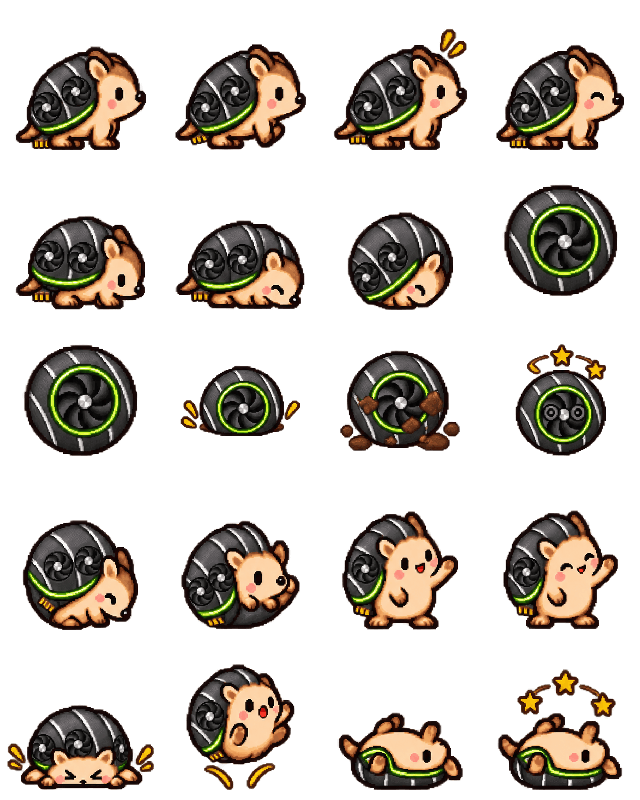
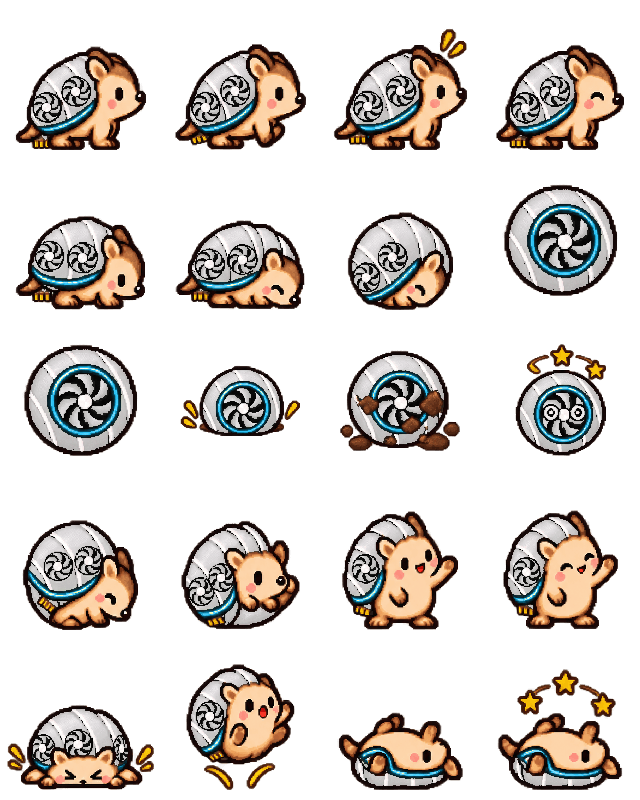
feat(marble): 5090 에디션을 LED · 화이트 · 블랙으로 구분 — 구를 때 셋이 똑같이 보이던 문제
세 스킨 모두 "검은 공 + 초록 링"이라 게임 크기(28px)로 구르면 구분이 안 됐다.
실제 그래픽카드 라인업처럼 색으로 가른다.

- 공벌레 = LED: LED 띠·링을 무지개로, 공 칸은 팬 날개도 무지개(구르면 색이 돈다)
- 아르마딜로 = 화이트: 건메탈 판 → 흰색, LED → 하늘색
- 거북이 = 블랙: 그대로
- 다시 그리지 않고 recolor-gpu-editions.py 로 색만 변환(알파 동일, 결정론)
- 같은 이름 교체라 ASSET_VER v5 → v6, manifest md5 갱신
- 상점 이름: 공벌레 5090 LED 에디션 / 아르마딜로 5090 화이트 에디션 / 거북이 5090 블랙 에디션

검증: verify-creature ALL_OK, ball-round ROUND_OK, qa-marble-skin-shop-test ALL PASS,
프리뷰 ?v=6 로드·렌더 예외 0건

diff --git a/js/marble-render.js b/js/marble-render.js
@@ -127,7 +127,7 @@ var MarbleRender = (function () {
     // ─── 에셋 맵 (null = 2차 미도착 → 플레이스홀더) ───
     var A = '/assets/marble/';
     // 에셋 URL 버전 — 서버(routes/api.js)가 assets/marble/** 를 7일 캐시하므로, 같은 이름으로 파일을 교체하면 여기를 올려야 모두가 새 그림을 받는다(2026-09-22)
-    var ASSET_VER = '?v=5';   // v2(2026-09-26): N차 — trampoline 같은 이름 교체. v3(2026-09-29): 너구리 5시트 공 칸 원형화. v4(2026-09-30): 강철·레드 돼지 시트 교체. v5: 앵그리 아이언 얼굴 드러난 판으로 교체
+    var ASSET_VER = '?v=6';   // v2(2026-09-26): N차 — trampoline 같은 이름 교체. v3(2026-09-29): 너구리 5시트 공 칸 원형화. v4(2026-09-30): 강철·레드 돼지 시트 교체. v5: 앵그리 아이언 얼굴 드러난 판으로 교체. v6(2026-10-01): 5090 에디션 공벌레(LED)·아르마딜로(화이트) 색 교체
     function withVer(src) { return src.indexOf(A) === 0 ? src + ASSET_VER : src; }   // ui 아틀라스(UI_ICON_ATLAS_URL, 자체 ?v=)는 제외
     var ASSETS = {
         creatures: { hedgehog: A + 'creatures/hedgehog.webp', armadillo: A + 'creatures/armadillo.webp', pillbug: A + 'creatures/pillbug.webp', turtle: A + 'creatures/turtle.webp', panda: A + 'creatures/panda.webp', hamster: A + 'creatures/hamster.webp', pufferfish: A + 'creatures/pufferfish.webp', raccoon: A + 'creatures/raccoon.webp', rabbit: A + 'creatures/rabbit.webp', ribbonpig: A + 'creatures/ribbonpig.webp' },   // 7차 3종은 도착 전 — 없으면 선택 버튼 숨김(js/marble.js). 스킨 시트('{creature}-{skin}')는 ensureSkin 이 처음 필요할 때 로드

diff --git a/AutoTest/spritemake/recolor-gpu-editions.py b/AutoTest/spritemake/recolor-gpu-editions.py
@@ -1,0 +1,157 @@
+#!/usr/bin/env python3
+"""데구리 5090 에디션 스킨 3종을 색으로 가른다 — 구를 때 셋 다 "검은 공 + 초록 링"이라 구분이 안 됐다(사용자 2026-10-01).
+실제 그래픽카드 라인업처럼 화이트 / 블랙 / LED 로 나눈다. 그림(모양·포즈·알파)은 그대로, 색만 결정론으로 바꾼다(난수 없음).
+
+    armadillo-gpu  화이트 — 건메탈 판 → 흰색, 라임 LED → 하늘색
+    pillbug-gpu    LED    — 라임 LED → 무지개(공 칸은 중심 둘레 각도, 나머지 칸은 가로 방향), 공 칸은 팬 날개도 무지개로 켠다
+    turtle-gpu     블랙   — 그대로(이 스크립트가 안 건드림)
+
+원본은 SpriteMake 배치의 final/creatures/*.png(검은 판, GPT 생성본을 리팩한 것). 결과는 pickup-skin.py 와 같은 길
+(pngquant --nofs → cwebp 무손실, alpha>=8 마스크 불변 확인)로 assets/marble/creatures/ 에 덮어쓰고 manifest md5 를 갱신한다.
+같은 이름 교체이므로 실행 뒤 js/marble-render.js ASSET_VER 을 올린다.
+
+usage:
+  /opt/homebrew/bin/python3 AutoTest/spritemake/recolor-gpu-editions.py            # 두 스킨 × 시트 3장 교체 + manifest
+  /opt/homebrew/bin/python3 AutoTest/spritemake/recolor-gpu-editions.py --png DIR  # 검수용 PNG 만 DIR 에(게임 파일 안 건드림)
+"""
+import hashlib, json, subprocess, sys, tempfile
+from pathlib import Path
+import numpy as np
+from PIL import Image
+
+OUT = Path('/Users/radar/Work/SpriteMake/output')
+GAME = Path(__file__).resolve().parents[2]
+DEST = GAME / 'assets' / 'marble' / 'creatures'
+MAN = GAME / 'assets' / 'marble' / 'marble-run.manifest.json'
+KINDS = ['', '-sleep', '-scuffle']
+CELL = 160
+ALPHA_MIN = 8
+BALL_CELLS = {(1, 3), (2, 0), (2, 1), (2, 2), (2, 3)}   # main 시트의 공 칸 (row, col) — 중심 (80, 80)
+
+NEUTRAL_SAT = 0.25                # 이보다 채도가 낮으면 건메탈·은색(판·팬·하이라이트)
+LINE_V = 0.10                     # 이보다 어두운 무채색은 선·눈·외곽선 — 건드리지 않는다
+LED_HUE, LED_SAT = (58, 150), 0.35   # 라임 LED 띠·링(진흙 hue≈25, 별·금색 단자 hue≈45 는 범위 밖)
+WHITE_LED_HUE = 195               # 화이트 에디션 LED = 하늘색
+FAN_GLOW_RADIUS = 40              # 공 칸에서 팬 날개로 치는 반지름(LED 링 안쪽)
+
+
+def to_hsv(a):
+    r, g, b = [a[..., i].astype(float) / 255. for i in range(3)]
+    mx, mn = np.maximum(np.maximum(r, g), b), np.minimum(np.minimum(r, g), b)
+    d = mx - mn
+    h = np.zeros_like(mx)
+    m = d > 1e-6
+    i = m & (mx == r); h[i] = ((g - b)[i] / d[i]) % 6
+    i = m & (mx == g) & ~(mx == r); h[i] = (b - r)[i] / d[i] + 2
+    i = m & (mx == b) & ~(mx == r) & ~(mx == g); h[i] = (r - g)[i] / d[i] + 4
+    return h * 60, np.where(mx > 0, d / np.maximum(mx, 1e-6), 0), mx
+
+
+def to_rgb(h, s, v):
+    h = (h % 360) / 60.
+    i = np.floor(h).astype(int) % 6
+    f = h - np.floor(h)
+    p, q, t = v * (1 - s), v * (1 - f * s), v * (1 - (1 - f) * s)
+    return np.stack([np.choose(i, [v, q, p, p, t, v]), np.choose(i, [t, v, v, q, p, p]), np.choose(i, [p, p, t, v, v, q])], -1)
+
+
+def finish(a, op, h, s, v):
+    out = a.copy()
+    out[..., :3] = np.clip(np.round(to_rgb(h, s, v) * 255), 0, 255).astype(np.uint8)
+    out[~op] = a[~op]
+    assert (out[..., 3] == a[..., 3]).all()
+    return Image.fromarray(out, 'RGBA')
+
+
+def led_mask(op, h, s):
+    return op & (h >= LED_HUE[0]) & (h < LED_HUE[1]) & (s >= LED_SAT)
+
+
+def white(im, main):
+    """화이트 — 건메탈 판을 흰색으로(음영 방향 유지), 은색 하이라이트는 더 밝게, LED 는 하늘색."""
+    a = np.array(im.convert('RGBA'))
+    h, s, v = to_hsv(a)
+    op = a[..., 3] >= ALPHA_MIN
+    h2, s2, v2 = h.copy(), s.copy(), v.copy()
+    shroud = op & (s < NEUTRAL_SAT) & (v >= LINE_V) & (v < 0.50)
+    v2[shroud] = 0.70 + (v[shroud] - LINE_V) / 0.40 * 0.26
+    s2[shroud] = s[shroud] * 0.35
+    hi = op & (s < NEUTRAL_SAT) & (v >= 0.50)
+    v2[hi] = np.minimum(1.0, 0.96 + (v[hi] - 0.5) * 0.08)
+    h2[led_mask(op, h, s)] = WHITE_LED_HUE
+    return finish(a, op, h2, s2, v2)
+
+
+def led(im, main):
+    """LED — 라임 LED 를 무지개로. 공 칸은 중심 둘레 각도로 색을 돌려 구르면 무지개가 돈다. 공 칸 팬 날개도 같이 켠다."""
+    a = np.array(im.convert('RGBA'))
+    h, s, v = to_hsv(a)
+    op = a[..., 3] >= ALPHA_MIN
+    h2, s2, v2 = h.copy(), s.copy(), v.copy()
+    lm = led_mask(op, h, s)
+    H, W = a.shape[:2]
+    yy, xx = np.mgrid[0:H, 0:W]
+    for r in range(H // CELL):
+        for c in range(W // CELL):
+            cell = (yy // CELL == r) & (xx // CELL == c)
+            m = lm & cell
+            cx, cy = c * CELL + CELL // 2, r * CELL + CELL // 2
+            if main and (r, c) in BALL_CELLS:
+                ang = (np.degrees(np.arctan2(yy - cy, xx - cx)) + 360) % 360
+                h2[m] = ang[m]
+                fan = op & cell & (s < NEUTRAL_SAT) & (v >= 0.16) & (v < 0.60) & (np.hypot(xx - cx, yy - cy) <= FAN_GLOW_RADIUS)
+                h2[fan] = (ang[fan] + 40) % 360
+                s2[fan] = 0.62
+                v2[fan] = np.minimum(1.0, v[fan] * 1.55 + 0.12)
+            elif m.any():
+                lo, hi = xx[m].min(), xx[m].max()
+                h2[m] = (xx[m] - lo) / max(1, hi - lo) * 300   # 빨강 → 보라 (360 까지 가면 양 끝이 같은 빨강)
+            s2[m] = np.maximum(s[m], 0.85)
+            v2[m] = np.minimum(1.0, v[m] * 1.15 + 0.05)
+    return finish(a, op, h2, s2, v2)
+
+
+EDITIONS = [   # (sheet, 배치, manifest 섹션, 변환, manifest note 에 덧붙일 말)
+    ('armadillo-gpu', 'marble-run-skin-armadillo-gpu-2026-10-01', 'skinArmadilloGpu', white, '화이트 에디션'),
+    ('pillbug-gpu', 'marble-run-skin-pillbug-gpu-2026-10-01', 'skinPillbugGpu', led, 'LED 에디션'),
+]
+NOTE = ' · 2026-10-01 {label}: recolor-gpu-editions.py 로 색만 변환(알파 동일). md5 는 변환한 PNG 기준, 검은 원본은 배치 final/.'
+
+
+def main():
+    png_dir = Path(sys.argv[2]) if len(sys.argv) > 2 and sys.argv[1] == '--png' else None
+    man = None
+    if not png_dir:
+        raw = MAN.read_text(encoding='utf-8')
+        man = json.loads(raw)
+        assert json.dumps(man, indent=2, ensure_ascii=False) + '\n' == raw, 'manifest formatting would change'
+    for sheet, batch, section, fn, label in EDITIONS:
+        for k in KINDS:
+            n = sheet + k
+            im = fn(Image.open(OUT / batch / 'final' / 'creatures' / f'{n}.png'), k == '')
+            if png_dir:
+                png_dir.mkdir(parents=True, exist_ok=True)
+                im.save(png_dir / f'{n}.png')
+                print('png', png_dir / f'{n}.png')
+                continue
+            with tempfile.TemporaryDirectory() as td:
+                src, q = Path(td) / f'{n}.png', Path(td) / f'{n}-q.png'
+                im.save(src)
+                # pickup-skin.py 와 같은 설정 — 무지개는 품질 하한 80 을 못 맞출 수 있어 60 으로 한 번 더
+                for quality in ('80-100', '60-100'):
+                    r = subprocess.run(['pngquant', '--nofs', '--quality', quality, '--speed', '1', '--strip', '--force', '-o', str(q), str(src)])
+                    if r.returncode != 99: break
+                if r.returncode != 0: sys.exit(f'pngquant failed for {n} (exit {r.returncode})')
+                mask = lambda p: np.array(Image.open(p).convert('RGBA'))[..., 3] >= ALPHA_MIN
+                if not (mask(q) == mask(src)).all(): sys.exit(f'quantize changed the alpha>=8 mask for {n}')
+                subprocess.run(['cwebp', '-quiet', '-lossless', '-z', '9', str(q), '-o', str(DEST / f'{n}.webp')], check=True)
+                man[section]['assets'][n]['md5'] = hashlib.md5(src.read_bytes()).hexdigest()
+            print('replaced', DEST / f'{n}.webp', f'{(DEST / (n + ".webp")).stat().st_size}B')
+        if man and label not in man[section]['note']:
+            man[section]['note'] += NOTE.format(label=label)
+    if man:
+        MAN.write_text(json.dumps(man, indent=2, ensure_ascii=False) + '\n', encoding='utf-8')
+        print('manifest md5 updated — js/marble-render.js ASSET_VER 을 올릴 것')
+
+
+main()

diff --git a/docs/spritemake-request/applied/2026-10-01-marble-skin-5090.md b/docs/spritemake-request/applied/2026-10-01-marble-skin-5090.md
@@ -25,3 +25,8 @@
   - 배치 QA 세 배치 모두 PASS / FRAGMENT-RUNS PASS / RIM PASS(건메탈·은색이라 걱정한 회색 테두리 오탐 없음). `verify-creature.py` ALL_OK ×3, `ball-round.py` ROUND_OK ×3 — 보정 없음.
   - 쇼케이스를 사용자에게 보냄 → 사용자 "전부". 세 마리 모두 인수(`pickup-skin.py`, manifest `skinPillbugGpu`·`skinArmadilloGpu`·`skinTurtleGpu`)·카탈로그 등록.
   - 인수 뒤 webp 를 풀어 다시 검증: ALL_OK ×3, ROUND_OK ×3. 상점 테스트 ALL PASS(55). 프리뷰에서 구르는 공이 링 안을 채움, 시트 9장 + 풍선 200, −4000~6000ms 렌더 예외 0건.
+- 2026-10-01 **세 에디션을 색으로 가름**: 사용자 "굴러갈 때 너무 비슷한데 차별 못 둠?" → 셋 다 검은 공 + 초록 링이라 28px 에서 구분 불가. 사용자 "그래픽카드도 흰색 검정색 LED 있으니 3개" → 화이트 / 블랙 / LED 로 나눔.
+  - 아르마딜로 = **화이트**(건메탈 판 → 흰색, LED → 하늘색), 공벌레 = **LED**(LED 띠·링 → 무지개, 공 칸은 팬 날개도 무지개), 거북이 = **블랙**(그대로).
+  - 다시 그리지 않고 `AutoTest/spritemake/recolor-gpu-editions.py` 로 배치 final PNG(검은 원본)에서 색만 변환 — 알파 100% 동일, 결정론. 같은 이름 교체라 `ASSET_VER` v5 → v6, manifest md5 갱신.
+  - 상점 이름: 공벌레 5090 LED 에디션 / 아르마딜로 5090 화이트 에디션 / 거북이 5090 블랙 에디션.
+  - 교체 뒤 재검증: verify ALL_OK ×2, ROUND_OK ×2, 상점 테스트 ALL PASS, 프리뷰 `?v=6` 200·렌더 예외 0건.
